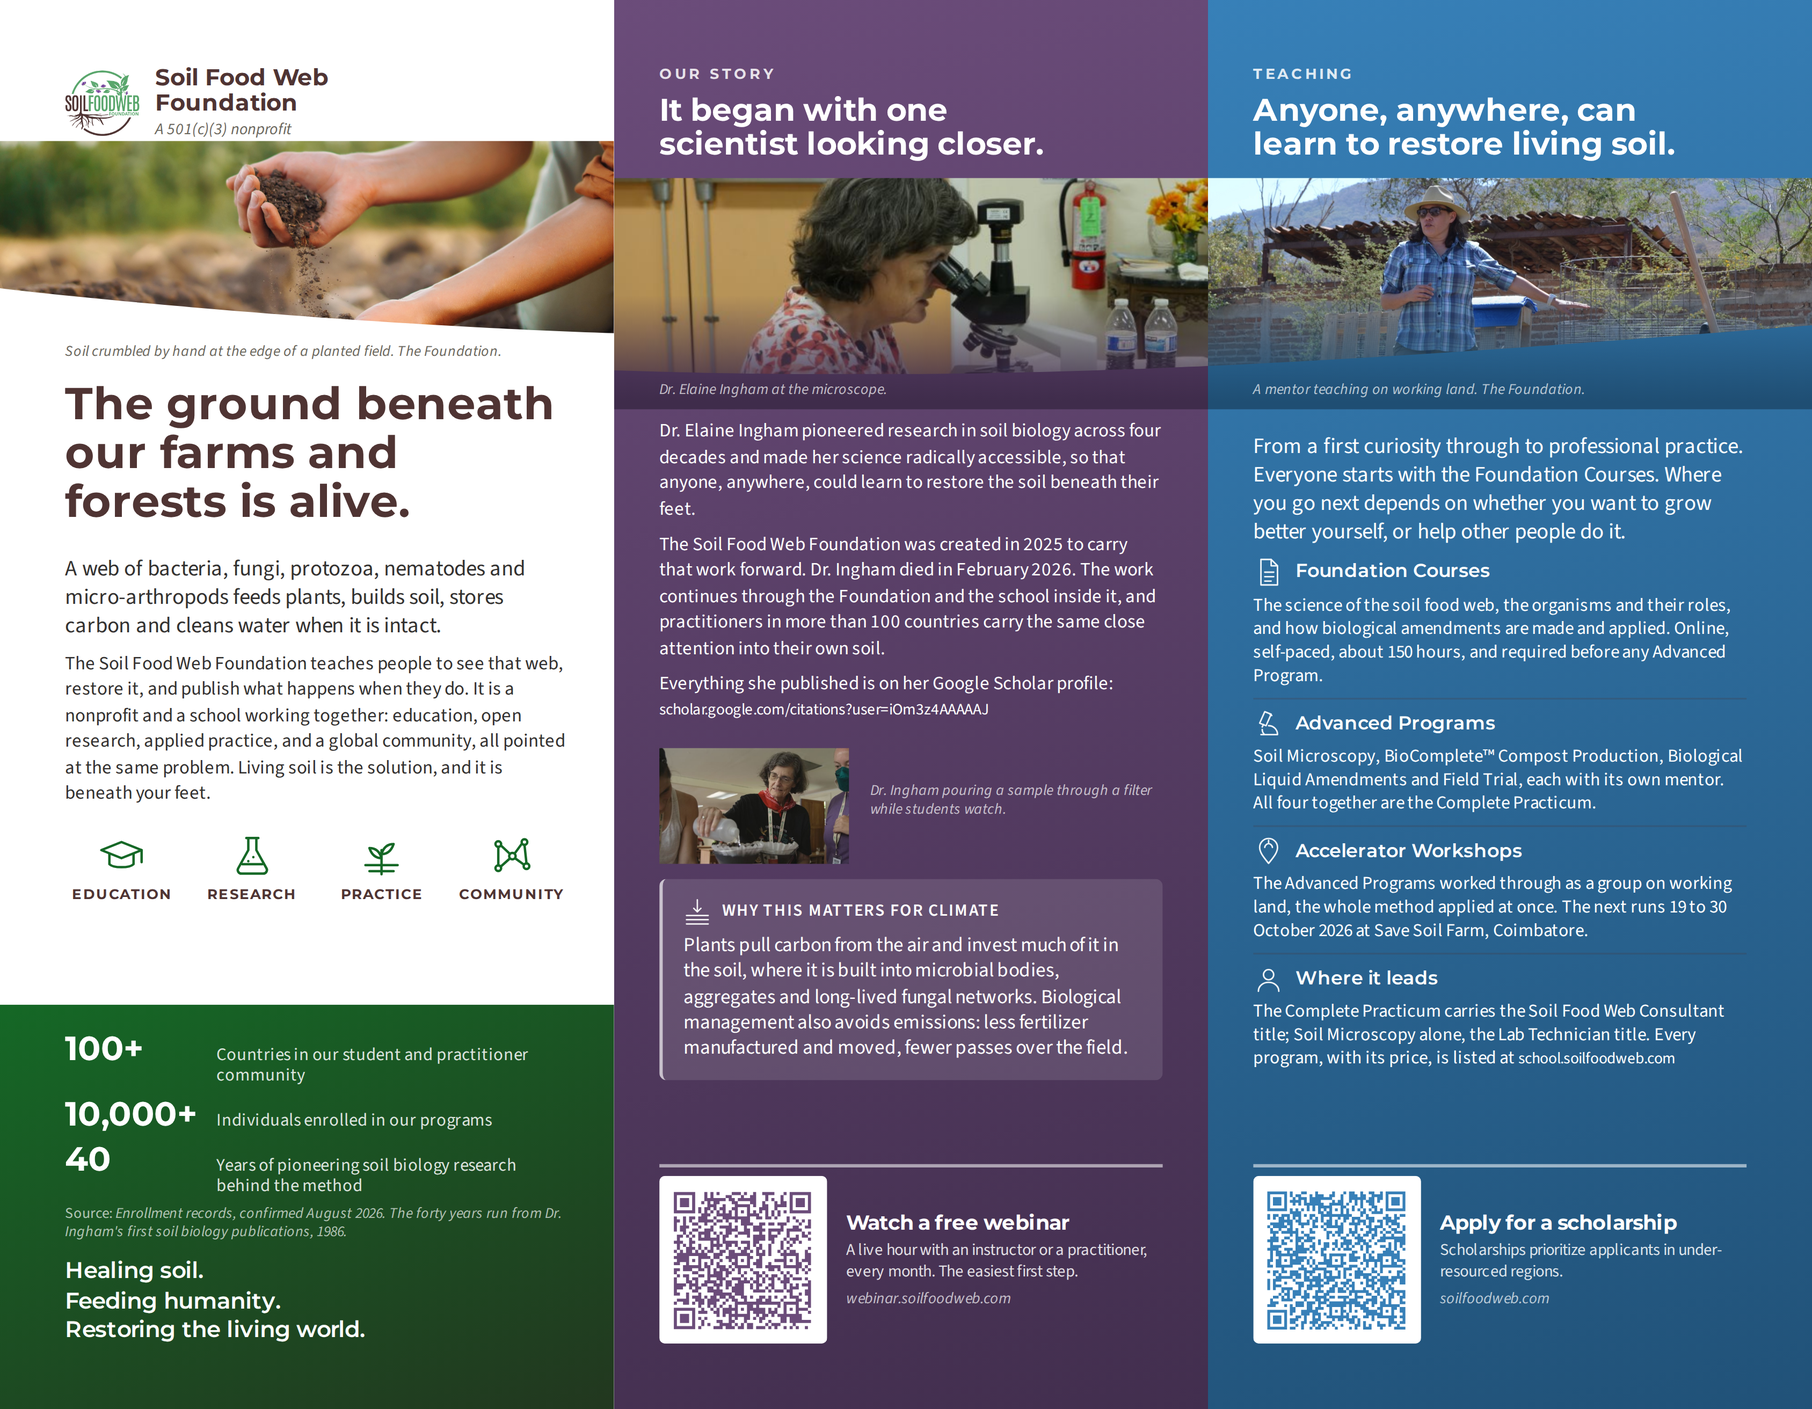
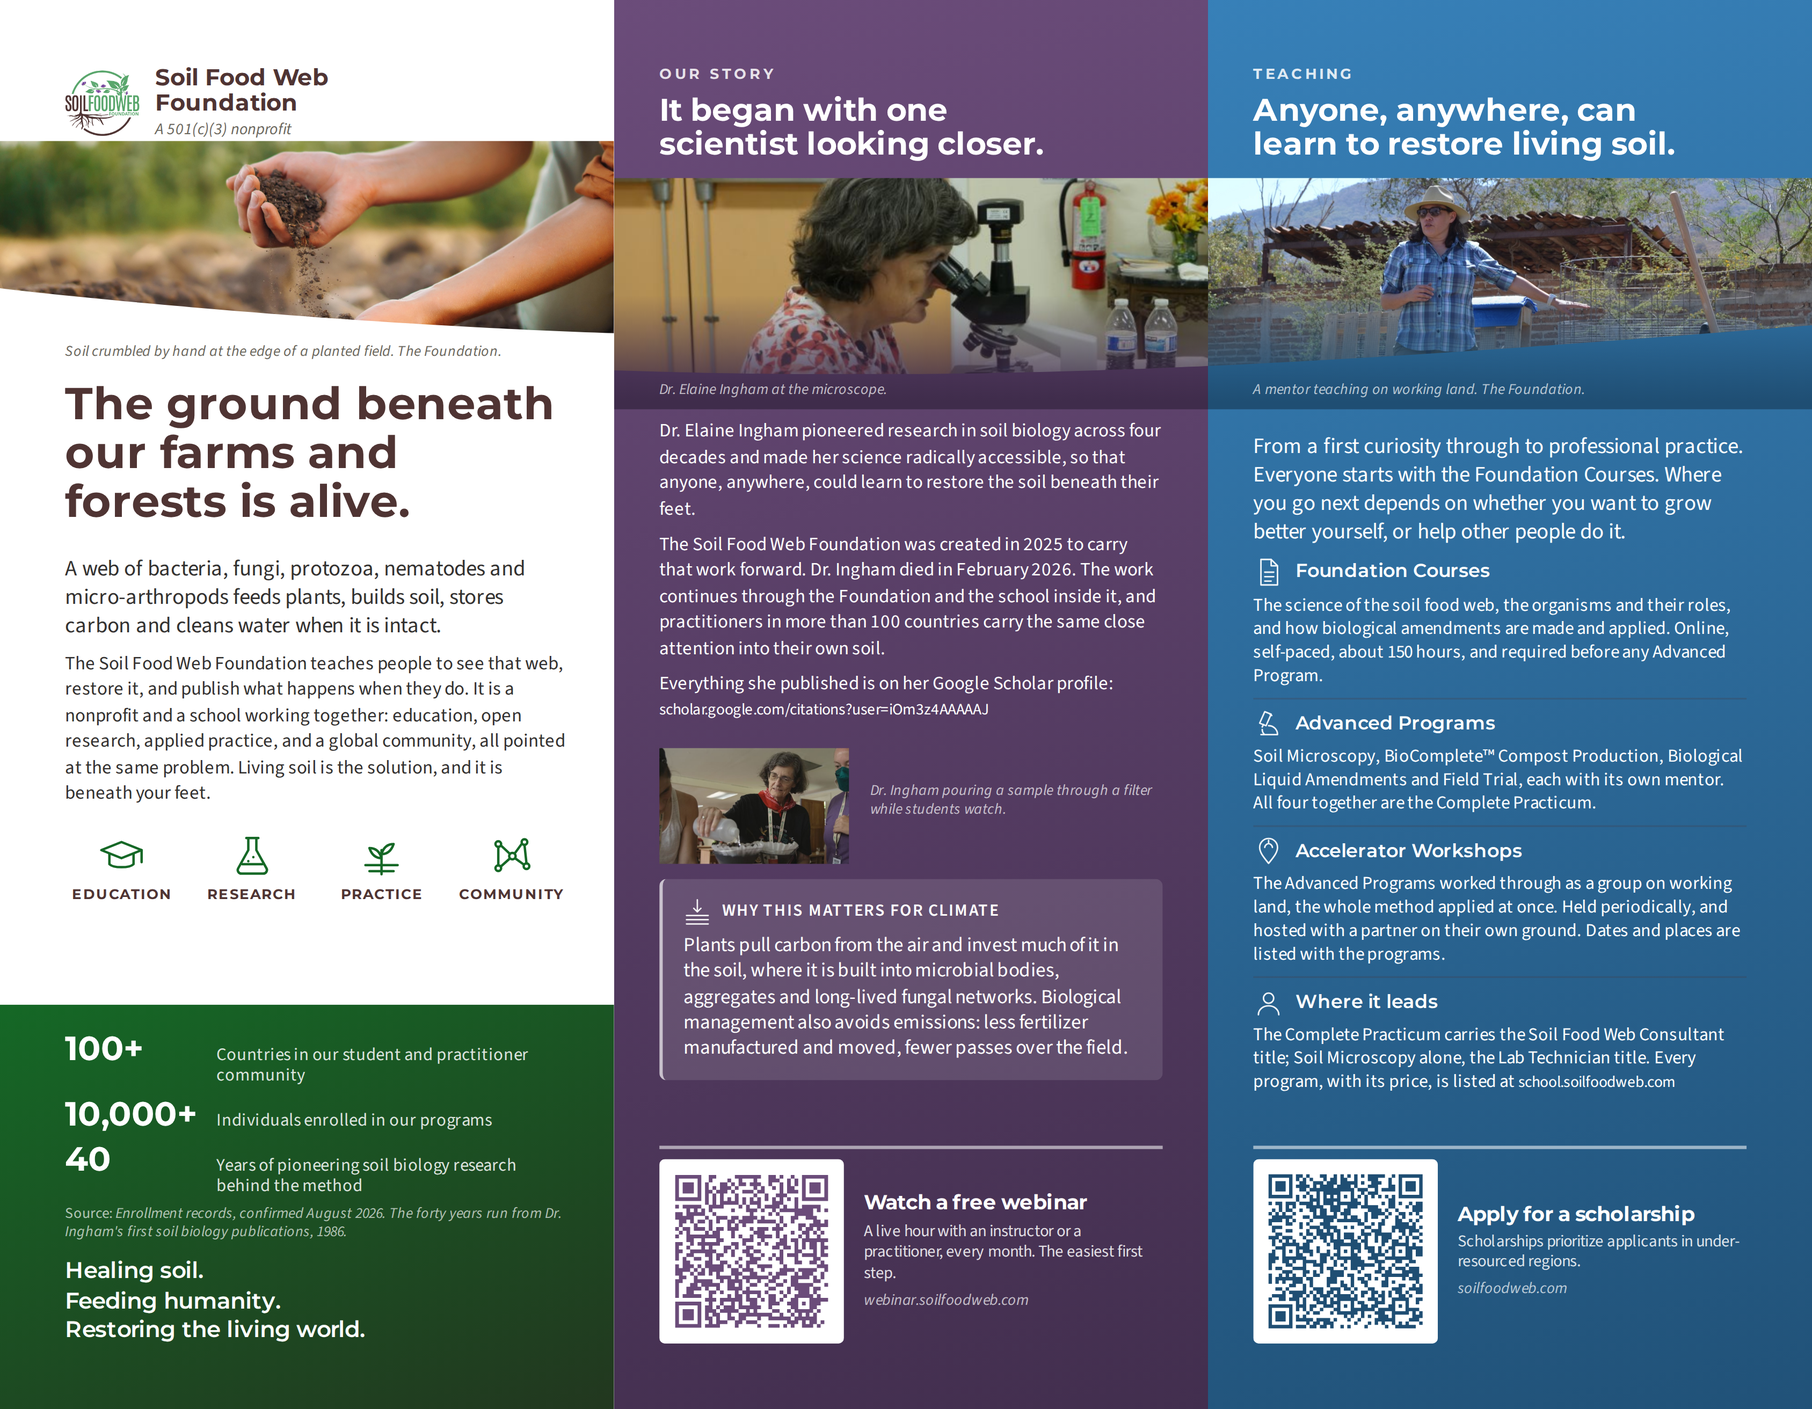
Trifold: donate code, case study code, nothing that expires, no notes
Stephanie's review.

A donate code. It closes the community panel, where Donate was already one
of the four roles named and nothing made it actionable. The code itself is
--soil, not the brand's gold: #C9A227 against white gives a scanner too
little to work with. The gold is on the rule above it, where nothing has
to read it.

A case study code on the practice panel, which is where a reader who
believes that panel wants to go next. It lands on the eleven films.

Nothing dated. The India workshop is out of the teaching panel, which now
says the workshops are held periodically and points at the listings, and
out of the practice panel, where it was the whole of "Working alongside"
and the rest of that partner list is not settled. Ecoregion hubs go too:
they are in planning and not yet named, which is not something to print in
a piece meant to be handed out in six months. What dates remain are
historical or source attributions, and those age correctly.

The practice panel tells it rather than lists it. Three growers by name,
place and scale, then the range and the method that does not change across
it, then straight into the films. Its production notes are gone with all
the others: the six .awaiting paragraphs are out of the artwork entirely
and live in Trifold Design/OPEN-QUESTIONS.md, because a final piece should
not carry notes to its own team even hidden ones.

The community panel answers its own heading now. It promised the work
[…]

Changed region(s): [[0.6844, 0.8122, 0.9644, 0.9684], [0.3422, 0.8122, 0.6533, 0.9684], [0.6844, 0.6248, 0.9644, 0.781]]

diff --git a/Trifold Design/build/inside.html b/Trifold Design/build/inside.html
@@ -96,12 +96,6 @@
           Photograph: Joy Kaluf. This is what a microscope count looks at: the
           organisms present, named and counted.</figcaption>
       </figure>
-
-      <p class="awaiting"><b>The research roadmap is not
-        confirmed.</b> Published replications, open data releases and a
-        microscopy methodology paper appear nowhere in the Foundation's own
-        material. Confirm or cut before print. Evan.</p>
-
       <div class="spacer"></div>
 
       <hr class="hr hr--strong">
@@ -127,13 +121,19 @@
       <p class="lede">The biology is universal; the practice is local. Every
         number we publish carries a name, a place and a year.</p>
 
-      <p>Eleven growers have filmed and published their own work: a quarter
-        acre in California, a market garden in Sweden, 140 acres in Piura,
-        4,000 in Norfolk, 5,000 of bananas in South Africa, 10,000 of corn and
-        soy in Illinois, and a public park on Governors Island. One method, at
-        every scale.</p>
-      <p class="source">The Foundation's own case study
-        films, counted September 2026.</p>
+      <p>Nick Padwick farms four thousand acres in Norfolk, England. Roberto
+        Silva works a hundred and forty in Piura, Peru. Jenn Sirp grows on a
+        quarter acre in California. Eleven of them have filmed their own work
+        and published it: where they started, what they changed, and what was
+        measured after, at length and in their own words.</p>
+      <p class="source">The Foundation's own case study films, counted
+        September 2026.</p>
+
+      <p>The scale runs from that quarter acre to ten thousand acres of corn
+        and soy in Illinois, and a public park on Governors Island in New York.
+        The method does not change with the acreage. Assess the biology under a
+        microscope, make the amendment that is missing, apply it, and count
+        again.</p>
 
       <figure class="figure figure--side">
         <img src="/img/harringtons-organic-land-care-brick-york-farms-2-768x1024.jpg" alt="" style="object-position:50% 45%">
@@ -141,39 +141,23 @@
           Farms, Illinois.</figcaption>
       </figure>
 
-      <p class="awaiting"><b>The South Africa tomato case is not printable yet.</b>
-        Tomato growers there raised the share of their Grade 1 produce in a
-        single season. The grower's name, the year and the source are needed
-        before the figures can print, and no photograph of that farm exists
-        here. Evan.</p>
-
-      <hr class="hr">
-
-      <div class="hd"><svg class="icon" aria-hidden="true"><use href="#i-workshop"/></svg><h3>Working alongside</h3></div>
-      <p>Isha Outreach, co-host of our first Accelerator Workshop on the
-        subcontinent, at Save Soil Farm, Coimbatore, 19 to 30 October 2026.</p>
-
-      <p class="awaiting"><b>The rest of the partner list is open.</b> The research
-        collaboration in Andhra Pradesh is proposed, not signed, and no partner
-        logos have been supplied. Evan.</p>
-
-      <hr class="hr">
-
-      <div class="hd"><svg class="icon" aria-hidden="true"><use href="#i-compost"/></svg><h3>Ecoregion hubs</h3></div>
-      <p>Compost production, microscopy, consulting and
-        education under one roof, closer to the growers who need them.</p>
-      <p class="awaiting">The hub pilots are in planning
-        and not yet named. Evan.</p>
+      <div class="card">
+        <div class="hd"><svg class="icon" aria-hidden="true"><use href="#i-person"/></svg><h3>Find a trained professional near you</h3></div>
+        <p>Consultants and lab technicians who finished the assessed programs
+          are listed in the Foundation's own directory.</p>
+      </div>
 
       <div class="spacer"></div>
 
-      <div class="card">
-        <div class="hd"><svg class="icon" aria-hidden="true"><use href="#i-person"/></svg><h3>Find a trained professional near you</h3></div>
-        <p>Consultants and lab technicians who
-          finished the assessed programs are listed in our own directory.</p>
-        <p class="awaiting" style="border-left-color:var(--ink-faint)">The
-          public web address for the directory is not settled. Confirm the final
-          link before this goes to a printer. Linnea and Evan.</p>
+      <div class="qr qr--green">
+        <img src="qr/case-studies.svg" alt="">
+        <div>
+          <div class="t">Watch the case studies</div>
+          <div class="d">Eleven films. Each pairs a grower's story with the
+            data behind it: where they started, what they practiced, and what
+            was measured.</div>
+          <div class="h">soilfoodweb.com/practice</div>
+        </div>
       </div>
 
     </section>
@@ -191,13 +175,13 @@
         <figcaption class="caption">A workshop group around a finished compost pile. The Foundation.</figcaption>
       </figure>
 
-      <p>Dr. Elaine gave this movement its science.
-        The community gives it staying power. Soil Regenerators in more than 100
-        countries, on six continents, teach their neighbors, run their own
-        trials, and restore land farm by farm. Donors, volunteers and partners
-        are building something no single organization could build alone.</p>
+      <p>Dr. Ingham built the method to be handed on. Nothing in it depends on
+        her being in the room: it is a microscope, a set of counts anyone can
+        learn to read, and people trained to read them. Soil Regenerators on six
+        continents now teach it to their neighbors, assess their own ground, and
+        publish what they find.</p>
 
-      <p>Every one of those roles is open.</p>
+      <p>That is what outlasts any one of us. Every role in it is open.</p>
 
       <div class="pillars">
         <div><svg class="icon icon--lg" aria-hidden="true"><use href="#i-scholarship"/></svg><div class="l">Study</div></div>
@@ -206,15 +190,20 @@
         <div><svg class="icon icon--lg" aria-hidden="true"><use href="#i-workshop"/></svg><div class="l">Host a<br>workshop</div></div>
       </div>
 
+      <p>Recordings, discussion and questions answered sit in the free
+        community, open to anyone at no cost:<br>
+        <span class="url">school.soilfoodweb.com</span></p>
+
       <div class="spacer"></div>
 
-      <div class="qr qr--green">
-        <img src="qr/community.svg" alt="">
+      <div class="qr qr--gold">
+        <img src="qr/donate.svg" alt="">
         <div>
-          <div class="t">Join the free community</div>
-          <div class="d">Recordings, discussion and questions answered, open to
-            anyone, at no cost.</div>
-          <div class="h">school.soilfoodweb.com</div>
+          <div class="t">Donate</div>
+          <div class="d">Gifts fund scholarships, support research, and increase
+            what the Foundation can do directly. Tax-deductible to the extent
+            allowed by law.</div>
+          <div class="h">soilfoodweb.com/donate</div>
         </div>
       </div>
 

diff --git a/Trifold Design/build/trifold.css b/Trifold Design/build/trifold.css
@@ -21,8 +21,11 @@
   --edu:        #3780B8;   /* Education Blue */
   --legacy:     #6B4C7A;   /* Legacy Purple. Dr. Elaine content ONLY. */
   --tan:        #C89B7B;
-  /* --gold (#C9A227) is deliberately absent. site.css scopes it to the
-     Donate button and there is no donate button in this brochure. */
+  /* site.css scopes --gold to the Donate button. This brochure now carries a
+     donate ask, so the token is here, and it is used exactly as the site uses
+     it: on the donate ask and nowhere else. Never on the QR code itself, where
+     it gives a scanner too little to work with against white. */
+  --gold:       #C9A227;
 
   --rule:        rgba(79, 52, 51, .22);
   --rule-strong: rgba(79, 52, 51, .55);
@@ -353,12 +356,18 @@ h3 {
 .panel--field .qr--green,
 .panel--field .qr--edu,
 .panel--field .qr--legacy  { border-top-color: rgba(255, 255, 255, 0.55); }
+/* The gold holds against the green field and is the one accent worth keeping
+   there, since it is the site's own colour for this single action. */
+.panel--field .qr--gold    { border-top-color: var(--gold); }
 /* A code has to be dark on light to scan, whatever it is standing on. */
 .panel--field .qr img {
   background: #FFFFFF;
-  padding: 0.055in;
+  padding: 0.05in;
   border-radius: 0.035in;
-  width: 1.04in; height: 1.04in;
+  /* Matched to the white panels. At 1.04in the scholarship code came out at
+     0.45mm a module, under the practical print minimum, and a decoder run over
+     the 300 DPI render could not read it. */
+  width: 1.15in; height: 1.15in;
 }
 
 /* The figures block reversed out, for the cover's closing field. */
@@ -594,6 +603,7 @@ h3 {
 .qr--legacy { border-top: 2pt solid var(--legacy); padding-top: var(--s2); }
 .qr--edu    { border-top: 2pt solid var(--edu);    padding-top: var(--s2); }
 .qr--green  { border-top: 2pt solid var(--green);  padding-top: var(--s2); }
+.qr--gold   { border-top: 2pt solid var(--gold);   padding-top: var(--s2); }
 
 /* The legal block, ratified wording, verbatim. */
 .legal { font-size: 6.8pt; line-height: 1.35; color: var(--ink-soft); }

diff --git a/Trifold Design/build/qr-boxes.js b/Trifold Design/build/qr-boxes.js
@@ -1,0 +1,18 @@
+const { chromium } = require('/opt/node22/lib/node_modules/playwright');
+const http=require('http'),path=require('path'),fs=require('fs');
+const REPO='/home/user/SFW-newwebsite';
+const T={'.html':'text/html','.css':'text/css','.svg':'image/svg+xml','.png':'image/png','.jpg':'image/jpeg','.jpeg':'image/jpeg','.woff2':'font/woff2'};
+(async()=>{const srv=http.createServer((q,r)=>{const rel=decodeURIComponent(q.url.split('?')[0]).replace(/^\/+/,'');const f=path.join(REPO,rel);
+ if(!fs.existsSync(f)||fs.statSync(f).isDirectory()){r.writeHead(404);r.end();return;}
+ r.writeHead(200,{'Content-Type':T[path.extname(f).toLowerCase()]||'application/octet-stream'});fs.createReadStream(f).pipe(r);});
+ await new Promise(r=>srv.listen(0,'127.0.0.1',r)); const port=srv.address().port;
+ const b=await chromium.launch(); const p=await b.newPage({viewport:{width:1080,height:840}});
+ const out={};
+ for(const src of ['outside','inside']){
+  await p.goto(`http://127.0.0.1:${port}/Trifold%20Design/build/${src}.html`,{waitUntil:'networkidle'});
+  await p.evaluate(()=>document.fonts.ready);
+  out[src]=await p.evaluate(()=>[...document.querySelectorAll('.qr img')].map(i=>{
+    const r=i.getBoundingClientRect();
+    return {src:i.getAttribute('src'),x:r.x,y:r.y,w:r.width,h:r.height};}));
+ }
+ console.log(JSON.stringify(out)); await b.close(); srv.close();})();

diff --git a/Trifold Design/build/outside.html b/Trifold Design/build/outside.html
@@ -184,8 +184,9 @@
         <div>
           <div class="hd"><svg class="icon" aria-hidden="true"><use href="#i-workshop"/></svg><h3>Accelerator Workshops</h3></div>
           <p>The Advanced Programs worked through as a group on working land,
-            the whole method applied at once. The next runs 19 to 30 October
-            2026 at Save Soil Farm, Coimbatore.</p>
+            the whole method applied at once. Held periodically, and hosted with
+            a partner on their own ground. Dates and places are listed with the
+            programs.</p>
         </div>
         <div>
           <div class="hd"><svg class="icon" aria-hidden="true"><use href="#i-person"/></svg><h3>Where it leads</h3></div>
@@ -195,12 +196,6 @@
             <span class="url">school.soilfoodweb.com</span></p>
         </div>
       </div>
-
-      <p class="awaiting"><b>Prices are deliberately not printed here.</b> They
-        move, and the refund rule and the payment plans are still open
-        decisions. Every current price sits on one page at
-        school.soilfoodweb.com. Evan.</p>
-
       <div class="spacer"></div>
 
       <div class="qr qr--edu">

diff --git a/Trifold Design/build/check-qr.py b/Trifold Design/build/check-qr.py
@@ -1,0 +1,46 @@
+#!/usr/bin/env python3
+"""Decode every QR code out of the rendered 300 DPI spreads.
+
+A print code that will not scan is worth nothing, and nothing else in this
+build catches it: the artwork looks perfectly correct with a dead code on it.
+This found two real faults. The scholarship code was Education Blue #3780B8,
+a mid tone that a decoder could not separate from white at this size; and the
+codes on the colour panels were set 0.11in smaller than the ones on the white
+panels, which took them to 0.45mm a module, under the practical print minimum.
+
+    python3 "Trifold Design/build/render.js"   # first, the spreads must exist
+    python3 "Trifold Design/build/check-qr.py"
+
+Needs opencv-python-headless. Run it after any change to a URL, a code colour,
+or the size of .qr img.
+"""
+import json, pathlib, subprocess, sys
+import cv2, numpy as np
+from PIL import Image
+
+HERE = pathlib.Path(__file__).parent
+SPREADS = HERE.parent
+SCALE = 300 / 96   # the render's deviceScaleFactor
+
+boxes = json.loads(subprocess.run(
+    ["node", str(HERE / "qr-boxes.js")], capture_output=True, text=True,
+    cwd=SPREADS.parent, check=True).stdout)
+
+det = cv2.QRCodeDetector()
+failures = []
+for sheet, items in boxes.items():
+    sheet_img = Image.open(SPREADS / f"{sheet}-spread.png").convert("RGB")
+    for it in items:
+        pad = 6
+        crop = sheet_img.crop((int(it["x"] * SCALE) - pad, int(it["y"] * SCALE) - pad,
+                               int((it["x"] + it["w"]) * SCALE) + pad,
+                               int((it["y"] + it["h"]) * SCALE) + pad))
+        url, _, _ = det.detectAndDecode(np.array(crop))
+        mm = it["w"] / 96 * 25.4
+        print(f"{it['src']:<24} {mm:5.1f}mm  {'ok    ' if url else 'FAILED'}  {url}")
+        if not url:
+            failures.append(it["src"])
+
+if failures:
+    sys.exit("could not decode: " + ", ".join(failures))
+print(f"all {sum(len(v) for v in boxes.values())} codes decode from the print render")

diff --git a/Trifold Design/build/make-qr.py b/Trifold Design/build/make-qr.py
@@ -1,5 +1,5 @@
 #!/usr/bin/env python3
-"""Generate the three QR codes for the trifold, one per panel.
+"""Generate the QR codes for the trifold, one per panel.
 
 Colours are taken from css/site.css section 1. See NOTES.md for the
 token decision behind each one. Run from the repo root:
@@ -12,7 +12,11 @@ import segno
 OUT = pathlib.Path(__file__).parent / "qr"
 OUT.mkdir(exist_ok=True)
 
-BASE = "utm_source=trifold&utm_medium=print&utm_campaign=foundation_brochure"
+# Short on purpose. Every character in the tail costs modules, every module
+# costs physical size, and a print code that will not scan is worth nothing at
+# all. utm_content still names the panel, which is the only breakdown anyone
+# will actually read.
+BASE = "utm_source=trifold&utm_medium=print"
 
 CODES = {
     # panel 6, Community. --green, Food Web Green.
@@ -30,7 +34,22 @@ CODES = {
     "scholarship": (
         "https://soilfoodweb.com/scholarship-opportunities"
         f"?{BASE}&utm_content=scholarship",
-        "#3780B8",
+        "#1F4E73",
+    ),
+    # panel 5, Practice. --green. The eleven case study films, which is where
+    # a reader who believes the practice panel wants to go next.
+    "case-studies": (
+        # The fragment goes last. Written the other way round the whole UTM
+        # tail lands inside the fragment and no analytics ever sees it.
+        f"https://soilfoodweb.com/practice?{BASE}&utm_content=case_studies#case-studies",
+        "#156826",
+    ),
+    # panel 6, Community. --soil, not --gold: the brand's gold is #C9A227,
+    # which against white gives a code a scanner has to work for. The gold
+    # appears on the rule above the code instead, where nothing has to read it.
+    "donate": (
+        f"https://soilfoodweb.com/donate?{BASE}&utm_content=donate",
+        "#4F3433",
     ),
 }
 

diff --git a/Trifold Design/OPEN-QUESTIONS.md b/Trifold Design/OPEN-QUESTIONS.md
@@ -1,0 +1,31 @@
+# Trifold, open questions
+
+These used to sit in the brochure markup as `.awaiting` paragraphs, hidden
+from the print render but present in the file. They are out of the artwork
+entirely now, because a final piece should not carry notes to its own team.
+They live here until they are answered.
+
+## outside.html
+
+Prices are deliberately not printed here. They move, and the refund rule and the payment plans are still open decisions. Every current price sits on one page at school.soilfoodweb.com. Evan.
+
+## inside.html
+
+The research roadmap is not confirmed. Published replications, open data releases and a microscopy methodology paper appear nowhere in the Foundation's own material. Confirm or cut before print. Evan.
+
+## inside.html
+
+The South Africa tomato case is not printable yet. Tomato growers there raised the share of their Grade 1 produce in a single season. The grower's name, the year and the source are needed before the figures can print, and no photograph of that farm exists here. Evan.
+
+## inside.html
+
+The rest of the partner list is open. The research collaboration in Andhra Pradesh is proposed, not signed, and no partner logos have been supplied. Evan.
+
+## inside.html
+
+The hub pilots are in planning and not yet named. Evan.
+
+## inside.html
+
+The public web address for the directory is not settled. Confirm the final link before this goes to a printer. Linnea and Evan.
+
